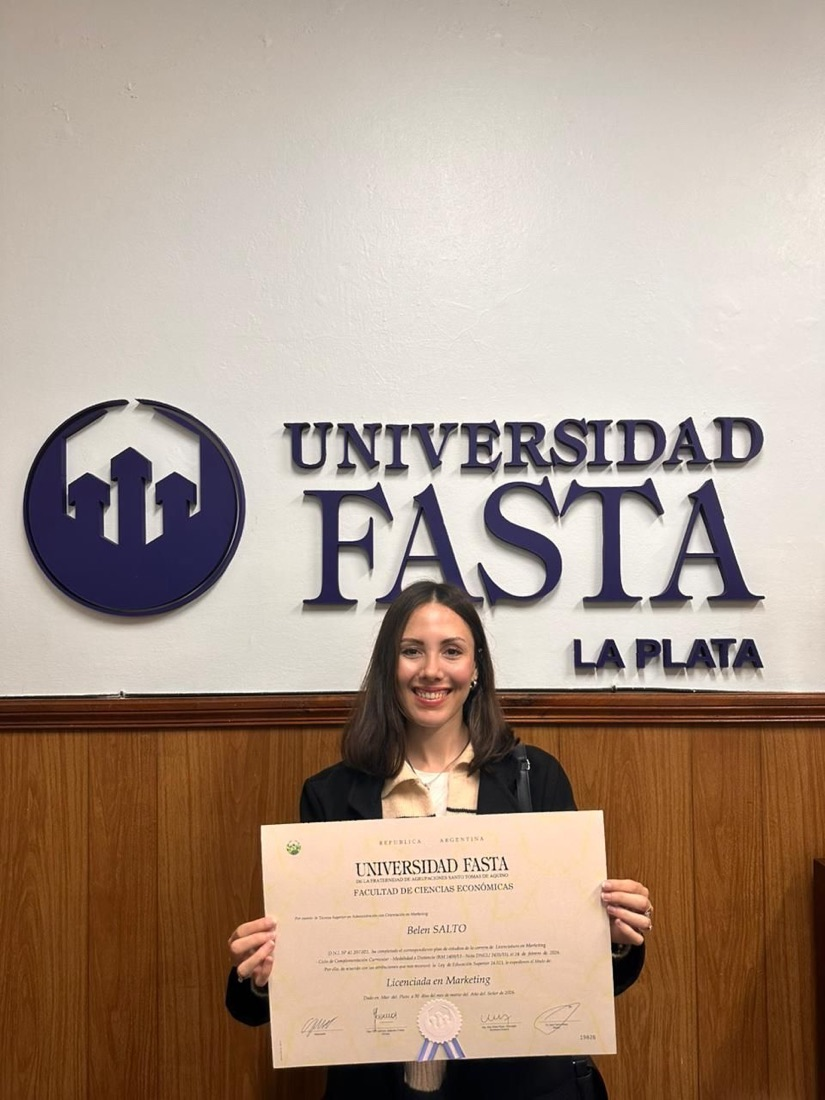
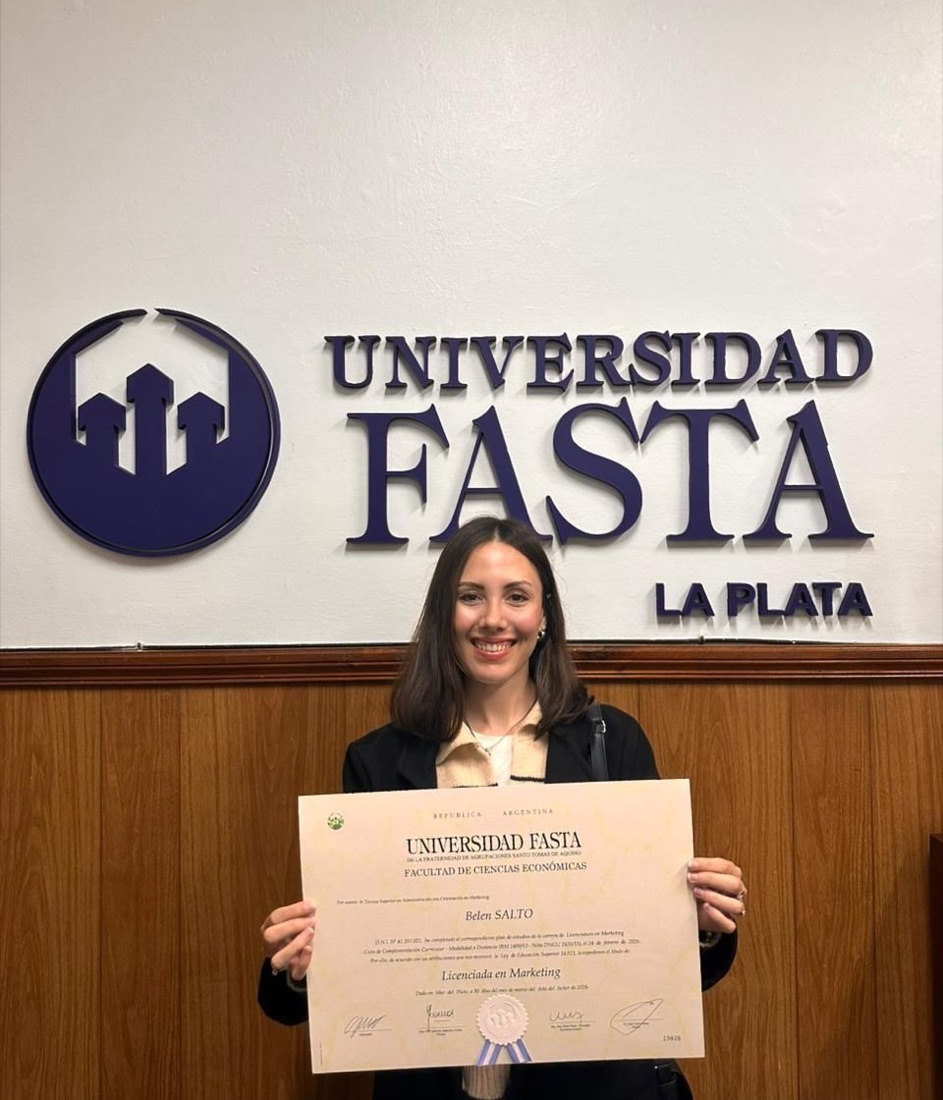
Reencuadra la foto de la recibida
Sobraba pared blanca arriba del cartel. Recortada solo por arriba, para
no cortar el cartel a los costados, y el marco del teléfono pasa a 6:7
para acompañar la nueva proporción.

diff --git a/index.html b/index.html
@@ -26,8 +26,8 @@
 <link rel="preconnect" href="https://fonts.gstatic.com" crossorigin>
 <link href="https://fonts.googleapis.com/css2?family=Poppins:wght@200;300;400;500;600&family=IBM+Plex+Mono:wght@400;500&display=swap" rel="stylesheet">
 
-<link rel="stylesheet" href="assets/css/tokens.css?v=25">
-<link rel="stylesheet" href="assets/css/styles.css?v=25">
+<link rel="stylesheet" href="assets/css/tokens.css?v=26">
+<link rel="stylesheet" href="assets/css/styles.css?v=26">
 </head>
 <body>
 
@@ -593,7 +593,7 @@
           <span class="phonebody">
             <span class="phonebody__notch" aria-hidden="true"></span>
             <span class="phonebody__screen">
-              <img src="assets/img/me/recibida-fasta.jpg" width="960" height="1280" loading="lazy"
+              <img src="assets/img/me/recibida-fasta.jpg" width="943" height="1100" loading="lazy"
                    alt="" data-i18n-alt="why.photoAlt">
             </span>
           </span>
@@ -697,7 +697,7 @@
   <video id="vmodalVideo" controls playsinline preload="none"></video>
 </div>
 
-<script src="assets/js/i18n.js?v=25"></script>
-<script src="assets/js/main.js?v=25"></script>
+<script src="assets/js/i18n.js?v=26"></script>
+<script src="assets/js/main.js?v=26"></script>
 </body>
 </html>

diff --git a/assets/css/styles.css b/assets/css/styles.css
@@ -1503,7 +1503,7 @@ ul, ol { margin: 0; padding: 0; list-style: none; }
 /* Cada pantalla toma la proporción de su foto para que entre entera
    y sin franjas negras: la del título es vertical, la otra apaisada. */
 .phonebody__screen {
-  display: block; width: 100%; aspect-ratio: 3 / 4;
+  display: block; width: 100%; aspect-ratio: 6 / 7;
   border-radius: 18px; overflow: hidden; background: var(--c-ink);
 }
 .phonebody__screen img { width: 100%; height: 100%; object-fit: contain; display: block; }
